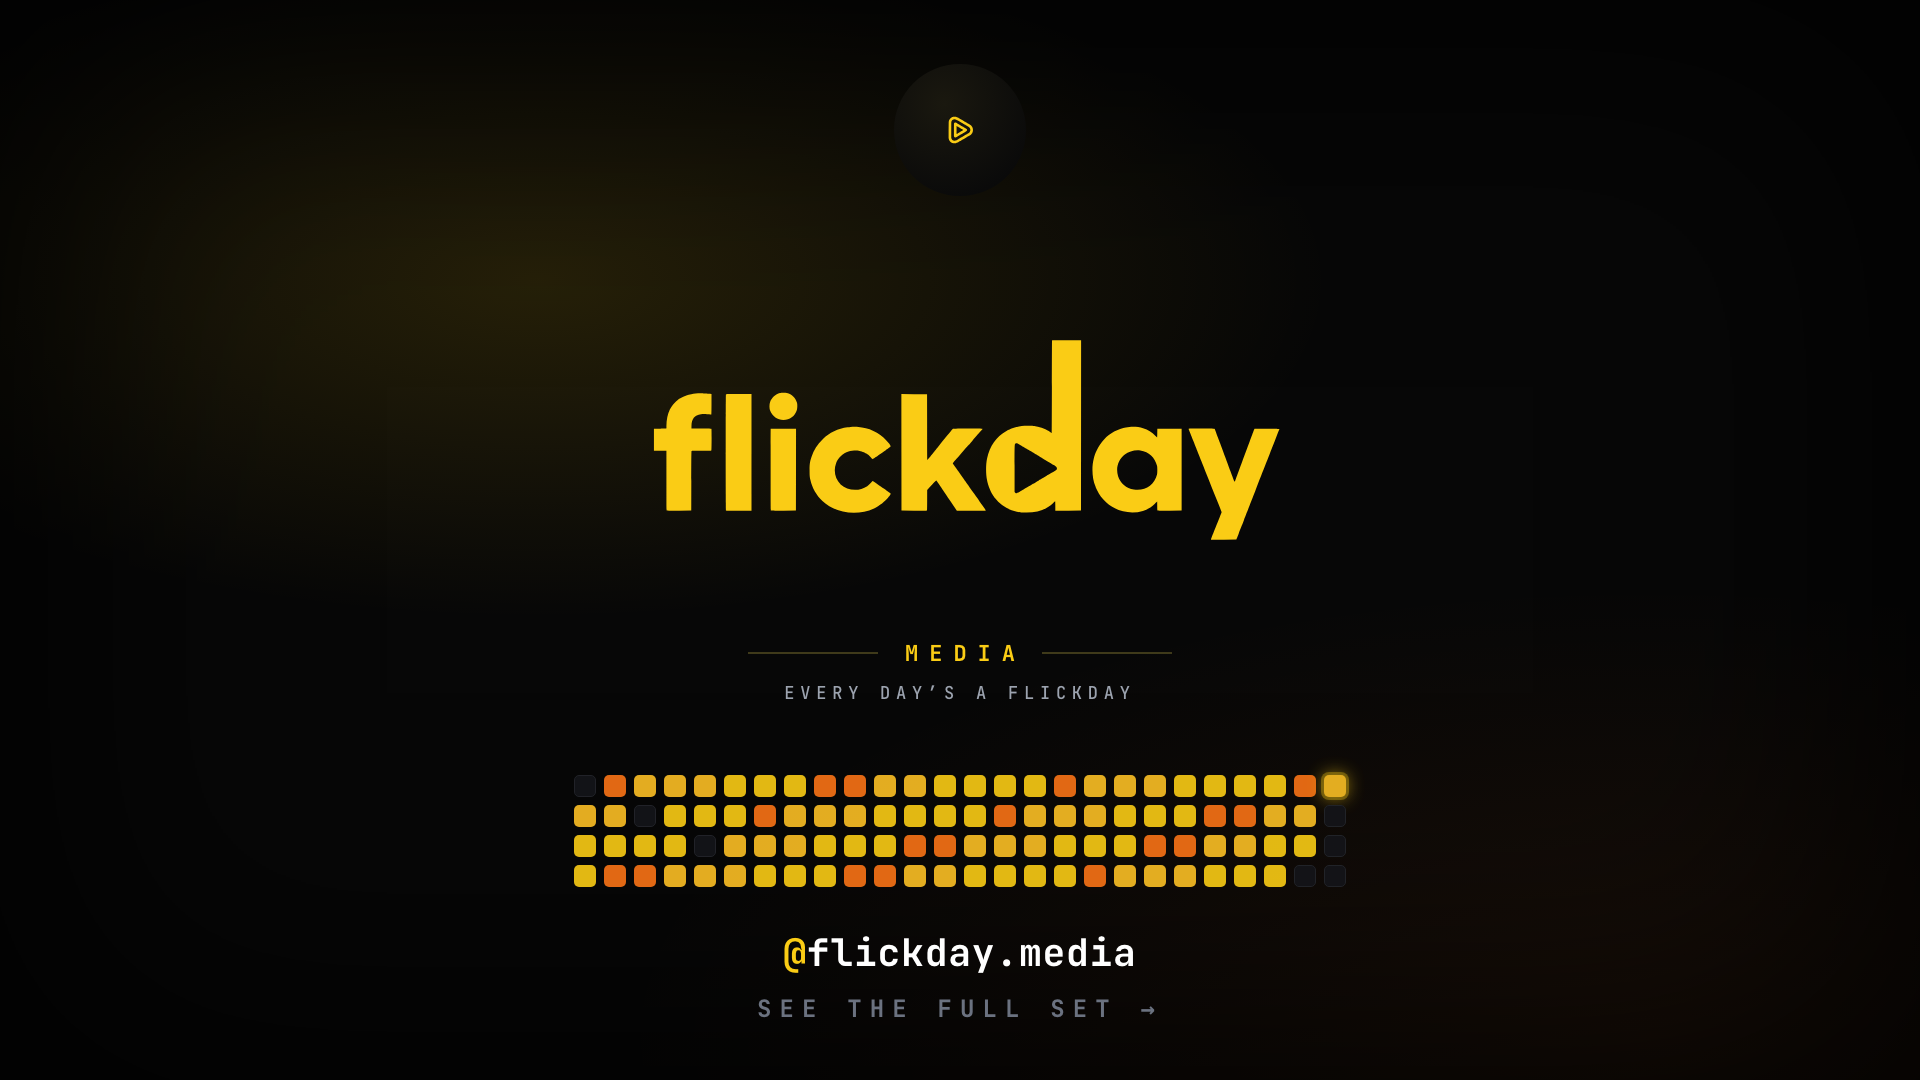
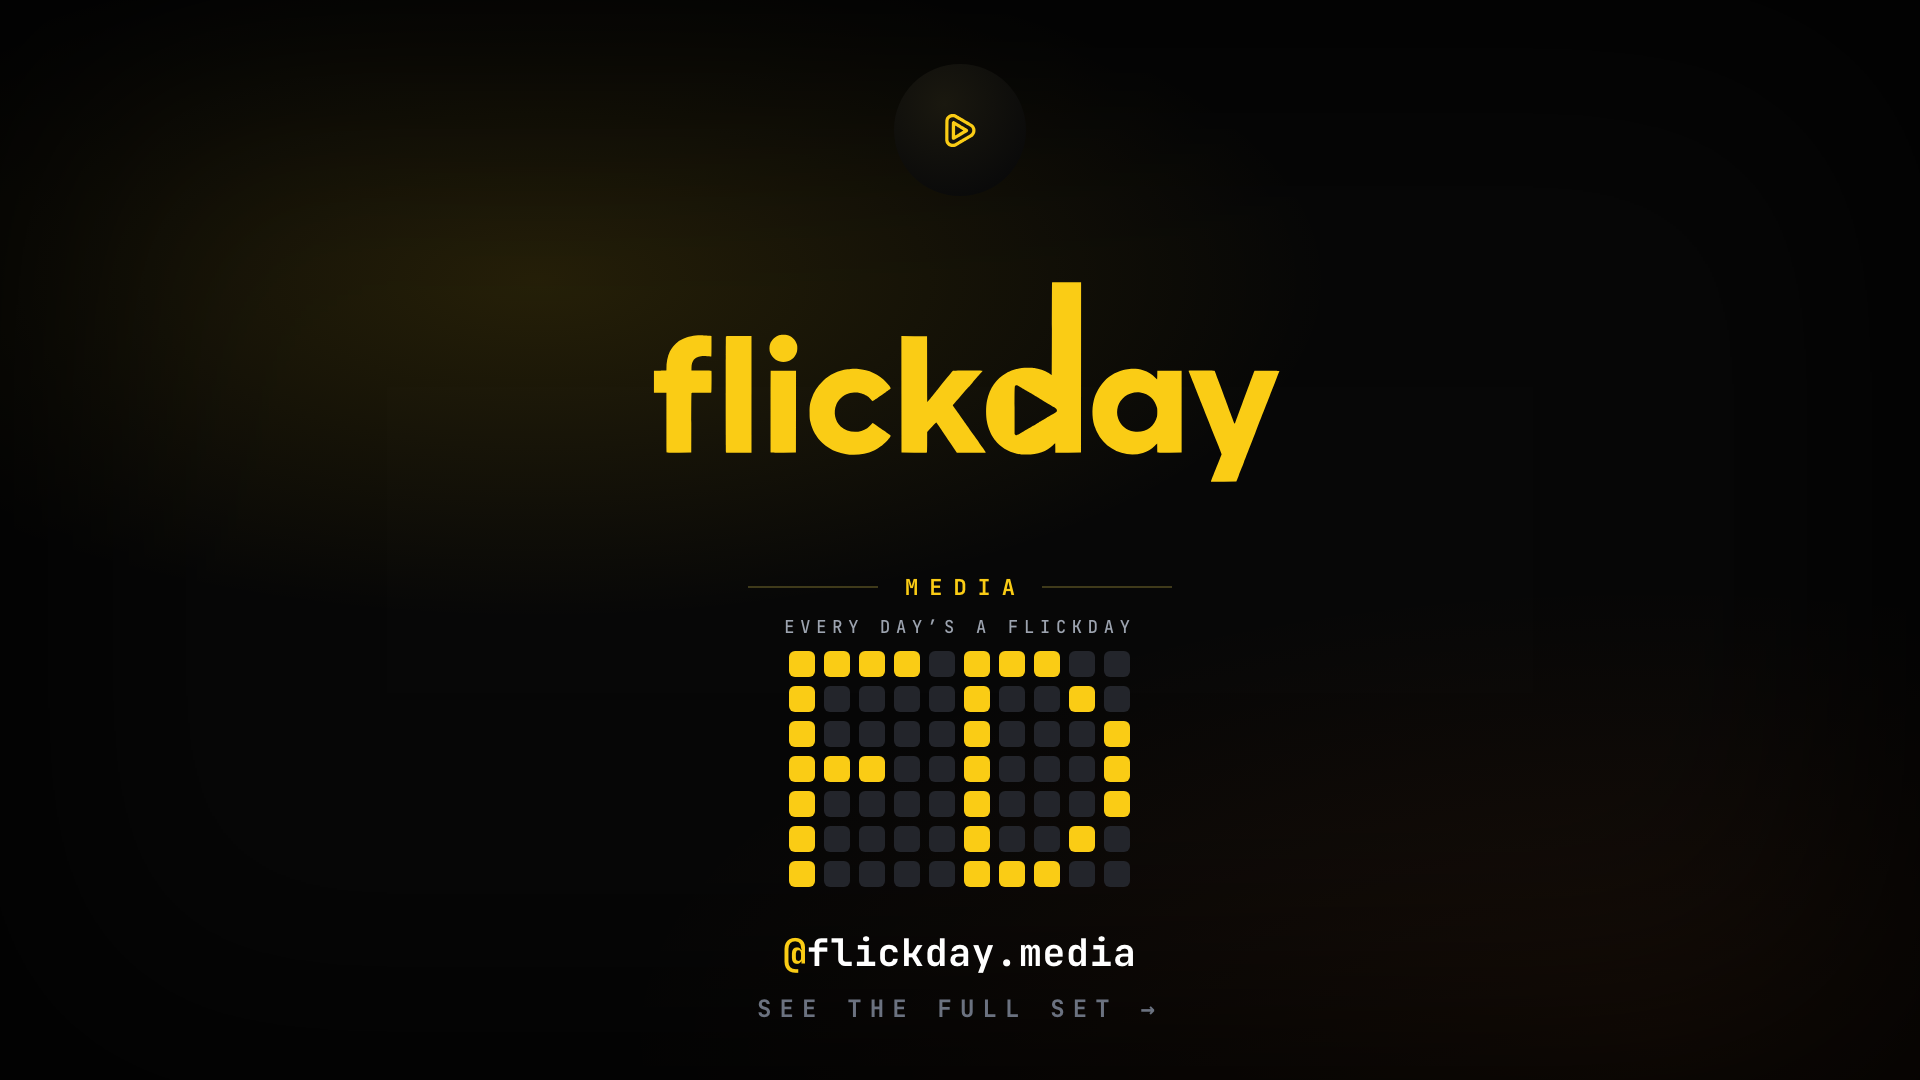
feat(brand): outro polish — bigger play, tighter wordmark/MEDIA, FD scoreboard
Replace the meaningless heatmap streak in the outro with gridFD: an LED
scoreboard that spells FD (brand + sports-scoreboard + every-day grid),
uniform brand yellow on dim cells. Bump the avatar play to 74% of the disc
and tighten the wordmark→MEDIA gap. Shared outroCard → reel + highlight cards.

Claude-Session: https://claude.ai/code/session_01LkxfT86YiW5EJSxVryn1jE

Changed region(s): [[0.2812, 0.5806, 0.7188, 0.825], [0.3438, 0.2444, 0.6875, 0.5194], [0.4688, 0.5194, 0.5312, 0.55]]

diff --git a/flickday-assets/outro/outro.html b/flickday-assets/outro/outro.html
@@ -22,7 +22,7 @@
     </style></head><body><div class="v2warm"></div><div class="v2vign"></div>
     <div style="position:absolute;inset:0;display:flex;flex-direction:column;align-items:center;justify-content:space-between;padding:64px 0 56px">
       <div class="tile round" style="width:132px;height:132px;display:flex;align-items:center;justify-content:center">
-        <svg xmlns="http://www.w3.org/2000/svg" viewBox="0 0 2752 1536" width="79" height="44" style="display:block">
+        <svg xmlns="http://www.w3.org/2000/svg" viewBox="0 0 2752 1536" width="98" height="55" style="display:block">
 
 <g transform="translate(0.000000,1536.000000) scale(0.100000,-0.100000)"
 fill="#facc15" stroke="none">
@@ -187,7 +187,7 @@ l1 475 92 98 c51 54 144 154 207 222 63 68 121 123 128 122 8 -1 93 -121 190
 -30 80 -73 197 -95 260 -23 63 -45 121 -51 128 -12 15 -1212 18 -1222 3z"/>
 </g>
 </svg>
-        <div style="display:flex;align-items:center;gap:16px;margin-top:22px">
+        <div style="display:flex;align-items:center;gap:16px;margin-top:14px">
           <span style="width:130px;height:2px;background:#3f3a1a"></span>
           <span style="font-family:'JetBrains Mono',monospace;font-weight:700;font-size:22px;letter-spacing:0.5em;text-transform:uppercase;color:#facc15;padding-left:0.5em">Media</span>
           <span style="width:130px;height:2px;background:#3f3a1a"></span>
@@ -195,7 +195,7 @@ l1 475 92 98 c51 54 144 154 207 222 63 68 121 123 128 122 8 -1 93 -121 190
         <span style="font-family:'JetBrains Mono',monospace;font-weight:500;font-size:17px;letter-spacing:0.34em;text-transform:uppercase;color:#9ca3af;margin-top:14px">Every day&rsquo;s a Flickday</span>
       </div>
       <div style="display:flex;flex-direction:column;align-items:center;gap:40px">
-        <div style="opacity:0.9"><div class="stk" style="grid-template-rows:repeat(4,22px);grid-auto-columns:22px;gap:8px"><i style="background:#141519;border:1px solid #24262c"></i><i style="background:#fbbf24;"></i><i style="background:#facc15;"></i><i style="background:#facc15;"></i><i style="background:#f97316;"></i><i style="background:#fbbf24;"></i><i style="background:#facc15;"></i><i style="background:#f97316;"></i><i style="background:#fbbf24;"></i><i style="background:#141519;border:1px solid #24262c"></i><i style="background:#facc15;"></i><i style="background:#f97316;"></i><i style="background:#fbbf24;"></i><i style="background:#facc15;"></i><i style="background:#facc15;"></i><i style="background:#fbbf24;"></i><i style="background:#fbbf24;"></i><i style="background:#facc15;"></i><i style="background:#141519;border:1px solid #24262c"></i><i style="background:#fbbf24;"></i><i style="background:#facc15;"></i><i style="background:#facc15;"></i><i style="background:#fbbf24;"></i><i style="background:#fbbf24;"></i><i style="background:#facc15;"></i><i style="background:#f97316;"></i><i style="background:#fbbf24;"></i><i style="background:#facc15;"></i><i style="background:#facc15;"></i><i style="background:#fbbf24;"></i><i style="background:#fbbf24;"></i><i style="background:#facc15;"></i><i style="background:#f97316;"></i><i style="background:#fbbf24;"></i><i style="background:#facc15;"></i><i style="background:#facc15;"></i><i style="background:#f97316;"></i><i style="background:#fbbf24;"></i><i style="background:#facc15;"></i><i style="background:#f97316;"></i><i style="background:#fbbf24;"></i><i style="background:#facc15;"></i><i style="background:#facc15;"></i><i style="background:#f97316;"></i><i style="background:#fbbf24;"></i><i style="background:#facc15;"></i><i style="background:#f97316;"></i><i style="background:#fbbf24;"></i><i style="background:#facc15;"></i><i style="background:#facc15;"></i><i style="background:#f97316;"></i><i style="background:#fbbf24;"></i><i style="background:#facc15;"></i><i style="background:#facc15;"></i><i style="background:#fbbf24;"></i><i style="background:#facc15;"></i><i style="background:#facc15;"></i><i style="background:#f97316;"></i><i style="background:#fbbf24;"></i><i style="background:#facc15;"></i><i style="background:#facc15;"></i><i style="background:#fbbf24;"></i><i style="background:#fbbf24;"></i><i style="background:#facc15;"></i><i style="background:#f97316;"></i><i style="background:#fbbf24;"></i><i style="background:#facc15;"></i><i style="background:#facc15;"></i><i style="background:#fbbf24;"></i><i style="background:#fbbf24;"></i><i style="background:#facc15;"></i><i style="background:#f97316;"></i><i style="background:#fbbf24;"></i><i style="background:#facc15;"></i><i style="background:#facc15;"></i><i style="background:#fbbf24;"></i><i style="background:#fbbf24;"></i><i style="background:#facc15;"></i><i style="background:#f97316;"></i><i style="background:#fbbf24;"></i><i style="background:#facc15;"></i><i style="background:#facc15;"></i><i style="background:#f97316;"></i><i style="background:#fbbf24;"></i><i style="background:#facc15;"></i><i style="background:#f97316;"></i><i style="background:#fbbf24;"></i><i style="background:#facc15;"></i><i style="background:#facc15;"></i><i style="background:#f97316;"></i><i style="background:#fbbf24;"></i><i style="background:#facc15;"></i><i style="background:#facc15;"></i><i style="background:#fbbf24;"></i><i style="background:#facc15;"></i><i style="background:#facc15;"></i><i style="background:#f97316;"></i><i style="background:#fbbf24;"></i><i style="background:#facc15;"></i><i style="background:#141519;border:1px solid #24262c"></i><i style="background:#fbbf24;box-shadow:0 0 0 3px rgba(250,204,21,0.35),0 0 18px rgba(250,204,21,0.8);"></i><i style="background:#141519;border:1px solid #24262c"></i><i style="background:#141519;border:1px solid #24262c"></i><i style="background:#141519;border:1px solid #24262c"></i></div></div>
+        <div><div style="display:grid;grid-template-columns:repeat(10,26px);gap:9px"><i style="width:26px;height:26px;border-radius:6px;background:#facc15"></i><i style="width:26px;height:26px;border-radius:6px;background:#facc15"></i><i style="width:26px;height:26px;border-radius:6px;background:#facc15"></i><i style="width:26px;height:26px;border-radius:6px;background:#facc15"></i><i style="width:26px;height:26px;border-radius:6px;background:#23252b"></i><i style="width:26px;height:26px;border-radius:6px;background:#facc15"></i><i style="width:26px;height:26px;border-radius:6px;background:#facc15"></i><i style="width:26px;height:26px;border-radius:6px;background:#facc15"></i><i style="width:26px;height:26px;border-radius:6px;background:#23252b"></i><i style="width:26px;height:26px;border-radius:6px;background:#23252b"></i><i style="width:26px;height:26px;border-radius:6px;background:#facc15"></i><i style="width:26px;height:26px;border-radius:6px;background:#23252b"></i><i style="width:26px;height:26px;border-radius:6px;background:#23252b"></i><i style="width:26px;height:26px;border-radius:6px;background:#23252b"></i><i style="width:26px;height:26px;border-radius:6px;background:#23252b"></i><i style="width:26px;height:26px;border-radius:6px;background:#facc15"></i><i style="width:26px;height:26px;border-radius:6px;background:#23252b"></i><i style="width:26px;height:26px;border-radius:6px;background:#23252b"></i><i style="width:26px;height:26px;border-radius:6px;background:#facc15"></i><i style="width:26px;height:26px;border-radius:6px;background:#23252b"></i><i style="width:26px;height:26px;border-radius:6px;background:#facc15"></i><i style="width:26px;height:26px;border-radius:6px;background:#23252b"></i><i style="width:26px;height:26px;border-radius:6px;background:#23252b"></i><i style="width:26px;height:26px;border-radius:6px;background:#23252b"></i><i style="width:26px;height:26px;border-radius:6px;background:#23252b"></i><i style="width:26px;height:26px;border-radius:6px;background:#facc15"></i><i style="width:26px;height:26px;border-radius:6px;background:#23252b"></i><i style="width:26px;height:26px;border-radius:6px;background:#23252b"></i><i style="width:26px;height:26px;border-radius:6px;background:#23252b"></i><i style="width:26px;height:26px;border-radius:6px;background:#facc15"></i><i style="width:26px;height:26px;border-radius:6px;background:#facc15"></i><i style="width:26px;height:26px;border-radius:6px;background:#facc15"></i><i style="width:26px;height:26px;border-radius:6px;background:#facc15"></i><i style="width:26px;height:26px;border-radius:6px;background:#23252b"></i><i style="width:26px;height:26px;border-radius:6px;background:#23252b"></i><i style="width:26px;height:26px;border-radius:6px;background:#facc15"></i><i style="width:26px;height:26px;border-radius:6px;background:#23252b"></i><i style="width:26px;height:26px;border-radius:6px;background:#23252b"></i><i style="width:26px;height:26px;border-radius:6px;background:#23252b"></i><i style="width:26px;height:26px;border-radius:6px;background:#facc15"></i><i style="width:26px;height:26px;border-radius:6px;background:#facc15"></i><i style="width:26px;height:26px;border-radius:6px;background:#23252b"></i><i style="width:26px;height:26px;border-radius:6px;background:#23252b"></i><i style="width:26px;height:26px;border-radius:6px;background:#23252b"></i><i style="width:26px;height:26px;border-radius:6px;background:#23252b"></i><i style="width:26px;height:26px;border-radius:6px;background:#facc15"></i><i style="width:26px;height:26px;border-radius:6px;background:#23252b"></i><i style="width:26px;height:26px;border-radius:6px;background:#23252b"></i><i style="width:26px;height:26px;border-radius:6px;background:#23252b"></i><i style="width:26px;height:26px;border-radius:6px;background:#facc15"></i><i style="width:26px;height:26px;border-radius:6px;background:#facc15"></i><i style="width:26px;height:26px;border-radius:6px;background:#23252b"></i><i style="width:26px;height:26px;border-radius:6px;background:#23252b"></i><i style="width:26px;height:26px;border-radius:6px;background:#23252b"></i><i style="width:26px;height:26px;border-radius:6px;background:#23252b"></i><i style="width:26px;height:26px;border-radius:6px;background:#facc15"></i><i style="width:26px;height:26px;border-radius:6px;background:#23252b"></i><i style="width:26px;height:26px;border-radius:6px;background:#23252b"></i><i style="width:26px;height:26px;border-radius:6px;background:#facc15"></i><i style="width:26px;height:26px;border-radius:6px;background:#23252b"></i><i style="width:26px;height:26px;border-radius:6px;background:#facc15"></i><i style="width:26px;height:26px;border-radius:6px;background:#23252b"></i><i style="width:26px;height:26px;border-radius:6px;background:#23252b"></i><i style="width:26px;height:26px;border-radius:6px;background:#23252b"></i><i style="width:26px;height:26px;border-radius:6px;background:#23252b"></i><i style="width:26px;height:26px;border-radius:6px;background:#facc15"></i><i style="width:26px;height:26px;border-radius:6px;background:#facc15"></i><i style="width:26px;height:26px;border-radius:6px;background:#facc15"></i><i style="width:26px;height:26px;border-radius:6px;background:#23252b"></i><i style="width:26px;height:26px;border-radius:6px;background:#23252b"></i></div></div>
         <div style="display:flex;flex-direction:column;align-items:center;gap:16px">
           <span style="font-family:'JetBrains Mono',monospace;font-weight:800;font-size:38px;
             letter-spacing:0.02em;color:#fff"><span style="color:#facc15">@</span>flickday.media</span>
